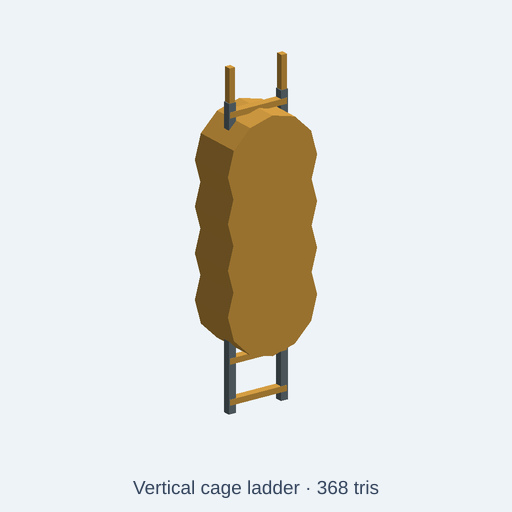
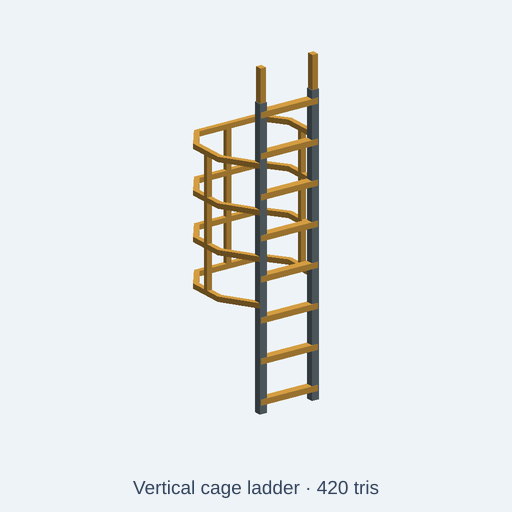
fix(catalog): open the cage ladder climbing corridor

Changed region(s): [[0.375, 0.0938, 0.625, 0.8125], [0.625, 0.9375, 0.6875, 0.9688]]

diff --git a/tests/integration/catalog/verticalCageLadderPassage.test.ts b/tests/integration/catalog/verticalCageLadderPassage.test.ts
@@ -1,0 +1,103 @@
+// SPDX-License-Identifier: MIT
+// Static CC0 visual identity and clear-corridor checks, not access-ladder certification.
+import { readFileSync } from 'node:fs';
+import { resolve } from 'node:path';
+import { NodeIO } from '@gltf-transform/core';
+import { beforeAll, describe, expect, it } from 'vitest';
+import { initOcct } from '../../../src/kernel/backends/occt/occtBackend';
+import { buildCatalogAssetWithGlb } from '../../../src/agent/catalog/buildCatalog';
+import { runAndExport } from '../../../src/agent/script-runtime/export';
+
+type Vec = [number, number, number];
+type Triangle = [Vec, Vec, Vec];
+const root = resolve(import.meta.dirname, '../../..');
+const file = 'catalog/kits/industrial-plant/vertical-cage-ladder.kcad.ts';
+const source = readFileSync(resolve(root, file), 'utf8');
+const sub = (a: Vec, b: Vec): Vec => [a[0] - b[0], a[1] - b[1], a[2] - b[2]];
+const dot = (a: Vec, b: Vec) => a[0] * b[0] + a[1] * b[1] + a[2] * b[2];
+const cross = (a: Vec, b: Vec): Vec => [a[1] * b[2] - a[2] * b[1], a[2] * b[0] - a[0] * b[2], a[0] * b[1] - a[1] * b[0]];
+
+async function triangles(bytes: Uint8Array): Promise<Map<string, Triangle[]>> {
+  const doc = await new NodeIO().readBinary(bytes);
+  const result = new Map<string, Triangle[]>();
+  for (const node of doc.getRoot().listNodes()) {
+    const mesh = node.getMesh();
+    if (!mesh) continue;
+    const matrix = node.getWorldMatrix(), body: Triangle[] = [];
+    for (const primitive of mesh.listPrimitives()) {
+      const position = primitive.getAttribute('POSITION')!, indices = primitive.getIndices();
+      for (let i = 0; i < (indices?.getCount() ?? position.getCount()); i += 3) {
+        body.push([0, 1, 2].map((j) => {
+          const v = position.getElement(indices ? indices.getScalar(i + j) : i + j, []);
+          const world = [0, 1, 2].map((axis) => 1000 * (matrix[axis]! * v[0]!
+            + matrix[axis + 4]! * v[1]! + matrix[axis + 8]! * v[2]! + matrix[axis + 12]!));
+          // GLB is Y-up/metres; all probes below use authored Z-up/mm coordinates.
+          return [world[0]!, -world[2]!, world[1]!] as Vec;
+        }) as Triangle);
+      }
+    }
+    result.set(node.getName(), body);
+  }
+  return result;
+}
+
+function hit(tris: Triangle[], origin: Vec, direction: Vec, length: number): boolean {
+  return tris.some(([a, b, c]) => {
+    const e1 = sub(b, a), e2 = sub(c, a), h = cross(direction, e2), determinant = dot(e1, h);
+    if (Math.abs(determinant) < 1e-8) return false;
+    const f = 1 / determinant, q = sub(origin, a), u = f * dot(q, h), r = cross(q, e1);
+    const v = f * dot(direction, r), distance = f * dot(e2, r);
+    return u >= -1e-7 && v >= -1e-7 && u + v <= 1 + 1e-7 && distance > 1e-6 && distance < length;
+  });
+}
+
+function assertOpenCorridor(parts: Map<string, Triangle[]>, scale: number): void {
+  const all = [...parts.values()].flat();
+  expect([...parts.keys()].filter((name) => /^rung-\d$/.test(name))).toHaveLength(8);
+  expect([...parts.keys()].filter((name) => /^safety-hoop-\d$/.test(name))).toHaveLength(4);
+  expect([...parts.keys()].filter((name) => /^cage-upright-\d$/.test(name))).toHaveLength(3);
+  for (const x of [-40, 0, 40]) for (const y of [35, 65])
+    expect(hit(all, [x * scale, y * scale, 300 * scale], [0, 0, 1], 500 * scale)).toBe(false);
+  // Positive controls prevent an empty or deleted cage from passing the void probes.
+  expect(hit(all, [0, 288 * scale, 300 * scale], [0, 0, 1], 500 * scale)).toBe(true);
+  expect(hit(all, [-88.2 * scale, 0, -10 * scale], [0, 0, 1], 1050 * scale)).toBe(true);
+  for (const z of [325.5, 465, 604.5, 744]) {
+    expect(hit(all, [0, 20 * scale, z * scale], [0, 1, 0], 240 * scale)).toBe(false);
+    expect(hit(all, [0, 20 * scale, z * scale], [0, 1, 0], 290 * scale)).toBe(true);
+  }
+}
+
+async function exportSource(code: string): Promise<Map<string, Triangle[]>> {
+  const output = await runAndExport({ code, fileName: 'vertical-cage-ladder.kcad.ts',
+    scriptDir: resolve(root, 'catalog/kits/industrial-plant'), format: 'glb',
+    options: { format: 'glb', style: 'lowpoly', lowpoly: { maxTriangles: 1400 } } });
+  expect(output.diagnostics.filter((d) => d.severity === 'error')).toEqual([]);
+  return triangles(output.bytes);
+}
+
+beforeAll(async () => { await initOcct(); }, 60_000);
+describe('vertical cage ladder open passage', () => {
+  it('keeps a clear climbing corridor through four real cage hoops', async () => {
+    const { asset, glb } = await buildCatalogAssetWithGlb(root, file);
+    expect(asset.stats.triangles).toBeLessThanOrEqual(asset.triangleBudget);
+    expect(asset.stats.sizeM[1]).toBeCloseTo(1.035, 5);
+    expect(asset.stats.minUpM).toBeCloseTo(0, 5);
+    expect(asset.description).toContain('1035 mm');
+    assertOpenCorridor(await triangles(glb), 1);
+  }, 60_000);
+
+  it('detects the original solid cylinders blocking the same corridor', async () => {
+    const old = readFileSync(resolve(root, 'tests/fixtures/catalog/verticalCageLadderOriginal.kcad.ts'), 'utf8');
+    const all = [...(await exportSource(old)).values()].flat();
+    for (const x of [-40, 0, 40]) for (const y of [35, 65])
+      expect(hit(all, [x, y, 300], [0, 0, 1], 500)).toBe(true);
+  }, 60_000);
+
+  it('keeps the opening and surrounding guard geometry at both scale limits', async () => {
+    for (const scale of [0.65, 1.35]) {
+      const code = source.replace("param('scale', 1,", `param('scale', ${scale},`);
+      expect(code).not.toBe(source);
+      assertOpenCorridor(await exportSource(code), scale);
+    }
+  }, 60_000);
+});

diff --git a/catalog/kits/industrial-plant/vertical-cage-ladder.kcad.ts b/catalog/kits/industrial-plant/vertical-cage-ladder.kcad.ts
@@ -1,10 +1,10 @@
 // SPDX-License-Identifier: CC0-1.0
-// Fixed vertical access ladder with evenly spaced rungs, side rails and a wraparound safety cage.
+// Short 1035 mm schematic ladder section with eight rungs and an open wraparound cage. CC0 visualization only, not manufacturer CAD or a safety-rated access-ladder design.
 meta({
   name: 'vertical-cage-ladder',
   license: 'CC0-1.0',
   title: 'Vertical cage ladder',
-  description: 'Fixed vertical access ladder with evenly spaced rungs, side rails and a wraparound safety cage. Controls: overall scale, steel, safety paint.',
+  description: 'Short 1035 mm schematic ladder section with eight rungs and an open wraparound cage. CC0 visualization only, not manufacturer CAD or a safety-rated access-ladder design. Controls: overall scale, steel, safety paint.',
   tags: ['industrial plant', 'factory', 'process equipment', 'low poly', 'CC0'],
   kit: 'industrial-plant',
   category: 'structure',
@@ -31,14 +31,22 @@ p.part('rung-4', box(193.2, 26, 18, true).translate(0, 0, 526.4).scale(scale).co
 p.part('rung-5', box(193.2, 26, 18, true).translate(0, 0, 649.3).scale(scale).color(safetyPaint));
 p.part('rung-6', box(193.2, 26, 18, true).translate(0, 0, 772.1).scale(scale).color(safetyPaint));
 p.part('rung-7', box(193.2, 26, 18, true).translate(0, 0, 895).scale(scale).color(safetyPaint));
-p.part('safety-hoop-0', cylinder(160, 151.2, 8).rotate([1, 0, 0], 90).translate(0, 80, 325.5).scale(scale).color(safetyPaint));
-p.part('hoop-support-0', box(16, 118.4, 16, true).translate(0, 0, 325.5).scale(scale).color(steel));
-p.part('safety-hoop-1', cylinder(160, 151.2, 8).rotate([1, 0, 0], 90).translate(0, 80, 465).scale(scale).color(safetyPaint));
-p.part('hoop-support-1', box(16, 118.4, 16, true).translate(0, 0, 465).scale(scale).color(steel));
-p.part('safety-hoop-2', cylinder(160, 151.2, 8).rotate([1, 0, 0], 90).translate(0, 80, 604.5).scale(scale).color(safetyPaint));
-p.part('hoop-support-2', box(16, 118.4, 16, true).translate(0, 0, 604.5).scale(scale).color(steel));
-p.part('safety-hoop-3', cylinder(160, 151.2, 8).rotate([1, 0, 0], 90).translate(0, 80, 744).scale(scale).color(safetyPaint));
-p.part('hoop-support-3', box(16, 118.4, 16, true).translate(0, 0, 744).scale(scale).color(steel));
+// Open U-shaped straps wrap around the clear climbing corridor in the XY plane.
+// The ends overlap the ladder rails; the centre stays empty through every hoop.
+const cageStrap = () => path()
+  .moveTo(-100.2, -12).lineTo(-167.2, 96).lineTo(-167.2, 216)
+  .lineTo(-108, 296).lineTo(108, 296).lineTo(167.2, 216)
+  .lineTo(167.2, 96).lineTo(100.2, -12)
+  .lineTo(88.2, 0).lineTo(151.2, 100).lineTo(151.2, 210)
+  .lineTo(100, 280).lineTo(-100, 280).lineTo(-151.2, 210)
+  .lineTo(-151.2, 100).lineTo(-88.2, 0).close().extrude(16);
+for (const [i, z] of [325.5, 465, 604.5, 744].entries()) {
+  p.part(`safety-hoop-${i}`, cageStrap().translate(0, 0, z - 8).scale(scale).color(safetyPaint));
+}
+for (const [i, [x, y]] of [[-159.2, 155], [159.2, 155], [0, 288]].entries()) {
+  p.part(`cage-upright-${i}`, box(16, 16, 434.5, true)
+    .translate(x, y, 534.75).scale(scale).color(safetyPaint));
+}
 p.part('top-grab-left', box(18, 22, 110, true).translate(-88.2, 0, 980).scale(scale).color(safetyPaint));
 p.part('top-grab-right', box(18, 22, 110, true).translate(88.2, 0, 980).scale(scale).color(safetyPaint));
 

diff --git a/tests/fixtures/catalog/verticalCageLadderOriginal.kcad.ts b/tests/fixtures/catalog/verticalCageLadderOriginal.kcad.ts
@@ -1,0 +1,45 @@
+// SPDX-License-Identifier: CC0-1.0
+// Fixed vertical access ladder with evenly spaced rungs, side rails and a wraparound safety cage.
+meta({
+  name: 'vertical-cage-ladder',
+  license: 'CC0-1.0',
+  title: 'Vertical cage ladder',
+  description: 'Fixed vertical access ladder with evenly spaced rungs, side rails and a wraparound safety cage. Controls: overall scale, steel, safety paint.',
+  tags: ['industrial plant', 'factory', 'process equipment', 'low poly', 'CC0'],
+  kit: 'industrial-plant',
+  category: 'structure',
+  origin: 'base',
+  compat: ['industrial-plant', 'factory', 'manufacturing', 'industrial-scene'],
+  triangleBudget: 1400
+});
+
+const scale = param('scale', 1, { label: 'Overall scale', min: 0.65, max: 1.35, step: 0.05 });
+const steel = param('steel', '#6f7f85', { label: 'Structural steel' });
+const safetyPaint = param('safetyPaint', '#e2a846', { label: 'Safety paint' });
+presets({
+  weathered: { steel: '#575851', safetyPaint: '#9e722f' },
+  highVisibility: { safetyPaint: '#f5c640' },
+});
+const p = assembly('vertical-cage-ladder');
+p.part('ladder-rail--1', box(24, 24, 930, true).translate(-88.2, 0, 465).scale(scale).color(steel));
+p.part('ladder-rail-1', box(24, 24, 930, true).translate(88.2, 0, 465).scale(scale).color(steel));
+p.part('rung-0', box(193.2, 26, 18, true).translate(0, 0, 35).scale(scale).color(safetyPaint));
+p.part('rung-1', box(193.2, 26, 18, true).translate(0, 0, 157.9).scale(scale).color(safetyPaint));
+p.part('rung-2', box(193.2, 26, 18, true).translate(0, 0, 280.7).scale(scale).color(safetyPaint));
+p.part('rung-3', box(193.2, 26, 18, true).translate(0, 0, 403.6).scale(scale).color(safetyPaint));
+p.part('rung-4', box(193.2, 26, 18, true).translate(0, 0, 526.4).scale(scale).color(safetyPaint));
+p.part('rung-5', box(193.2, 26, 18, true).translate(0, 0, 649.3).scale(scale).color(safetyPaint));
+p.part('rung-6', box(193.2, 26, 18, true).translate(0, 0, 772.1).scale(scale).color(safetyPaint));
+p.part('rung-7', box(193.2, 26, 18, true).translate(0, 0, 895).scale(scale).color(safetyPaint));
+p.part('safety-hoop-0', cylinder(160, 151.2, 8).rotate([1, 0, 0], 90).translate(0, 80, 325.5).scale(scale).color(safetyPaint));
+p.part('hoop-support-0', box(16, 118.4, 16, true).translate(0, 0, 325.5).scale(scale).color(steel));
+p.part('safety-hoop-1', cylinder(160, 151.2, 8).rotate([1, 0, 0], 90).translate(0, 80, 465).scale(scale).color(safetyPaint));
+p.part('hoop-support-1', box(16, 118.4, 16, true).translate(0, 0, 465).scale(scale).color(steel));
+p.part('safety-hoop-2', cylinder(160, 151.2, 8).rotate([1, 0, 0], 90).translate(0, 80, 604.5).scale(scale).color(safetyPaint));
+p.part('hoop-support-2', box(16, 118.4, 16, true).translate(0, 0, 604.5).scale(scale).color(steel));
+p.part('safety-hoop-3', cylinder(160, 151.2, 8).rotate([1, 0, 0], 90).translate(0, 80, 744).scale(scale).color(safetyPaint));
+p.part('hoop-support-3', box(16, 118.4, 16, true).translate(0, 0, 744).scale(scale).color(steel));
+p.part('top-grab-left', box(18, 22, 110, true).translate(-88.2, 0, 980).scale(scale).color(safetyPaint));
+p.part('top-grab-right', box(18, 22, 110, true).translate(88.2, 0, 980).scale(scale).color(safetyPaint));
+
+return p.model();
